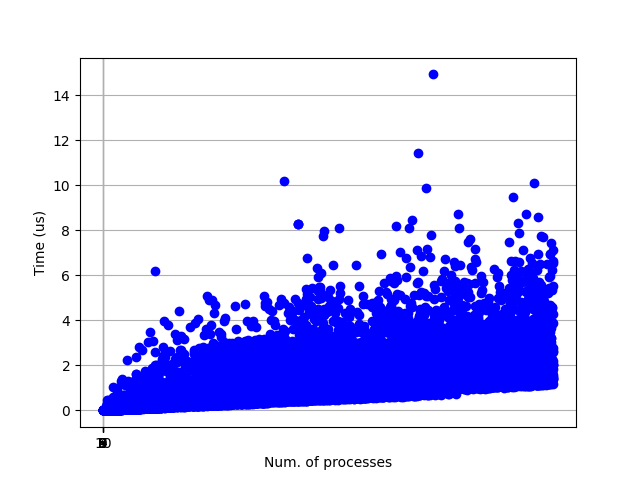
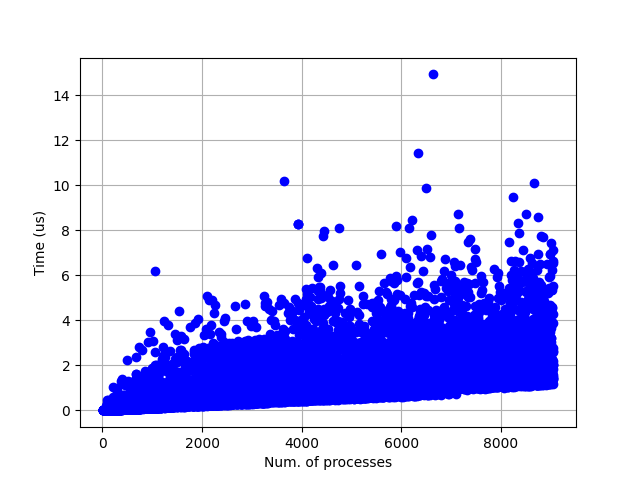
Neh poprawki

diff --git a/benchmark_plot.py b/benchmark_plot.py
@@ -19,7 +19,7 @@ plt.figure()
 plt.plot(vals, time, 'bo')
 plt.xlabel(r"Num. of processes")
 plt.ylabel(r"Time (us)")
-plt.xticks(np.arange(4, 11, 1))
+# plt.xticks(np.arange(4, 11, 1))
 # create a legend
 plt.grid()
 plt.show()
